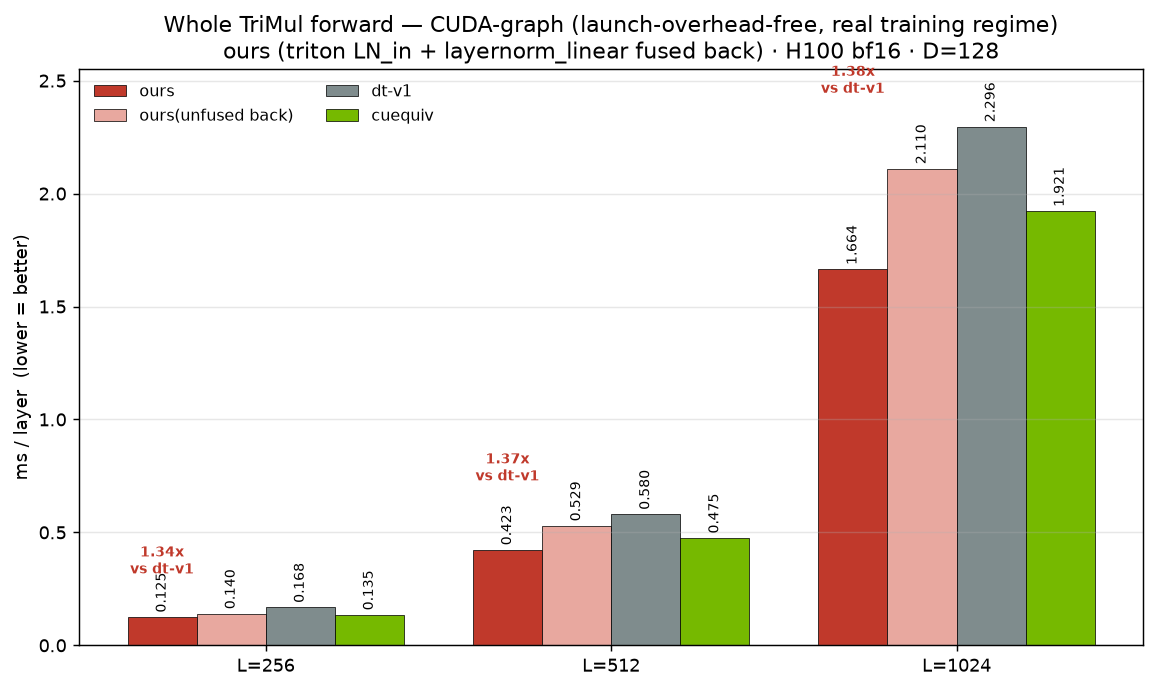
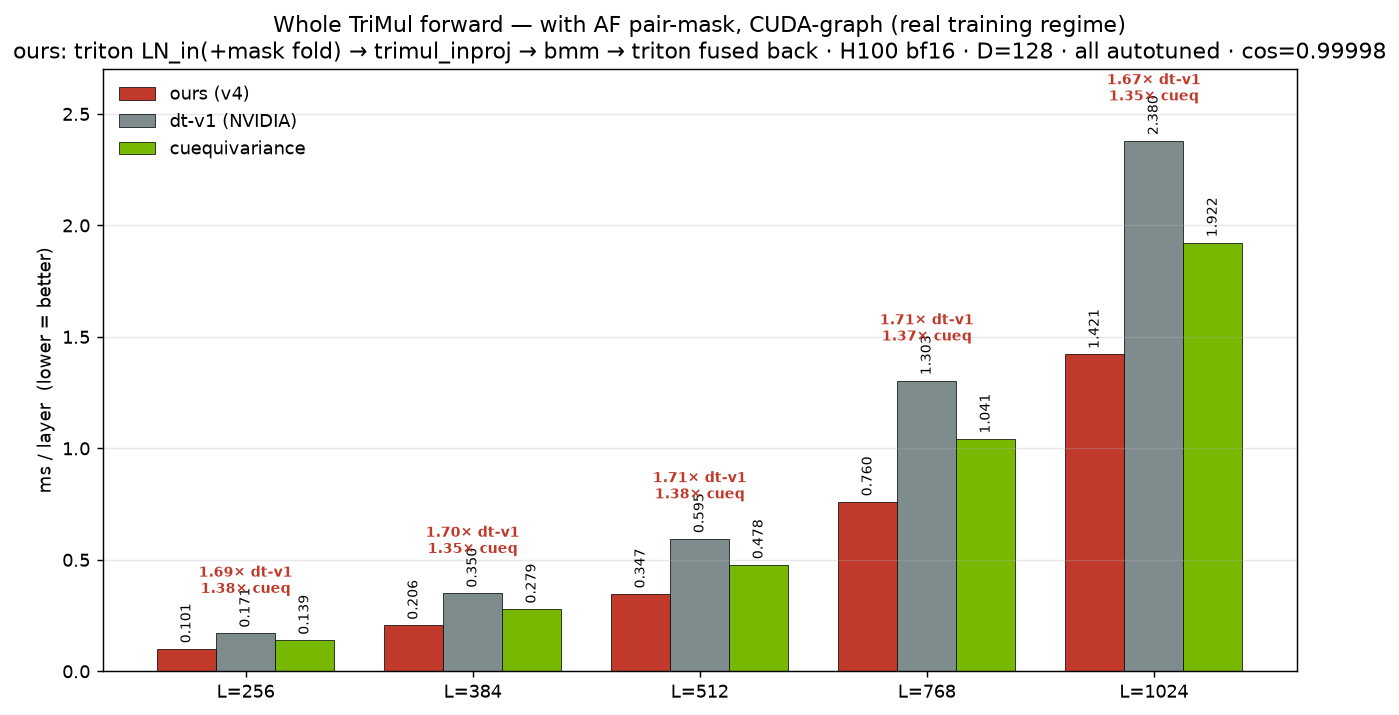
trimul fwd: free AF pair-mask via LN_in fold + canonical mask/cudagraph bench
Mask handling, verified against the AlphaFold reference (modules.py
TriangleMultiplication): mask multiplies the gated left/right projections
(channel-broadcast), output gate stays on UNMASKED xn. Since the projection is
linear (proj(0)=0), masking xn pre-projection zeros left/right at masked
positions identically -> fold the pair-mask into the triton LN_in epilogue for
FREE (no extra EW pass), instead of 2 EW passes on left/right (~+0.6ms @1024) or
modifying quack gemm_act. cos vs pytorch ref (mask) = 0.99998.

layernorm/triton/main.py:
  - layer_norm_fwd_fused gains optional Rowscale + HAS_ROWSCALE constexpr; when
    false (all existing callers) behavior is byte-identical.
  - new triton_layernorm_masked(x,w,b,eps,row_scale): forward-only (no autograd
    yet -> bench/inference). Backward for masked training is TODO (a: add
    masked-LN bwd, or b: fuse mask into trimul_inproj for bit-exact AF bwd).
  - (drive-by, not mine) reset_to_zero on layer_norm_bwd_dx_fused autotune.

compare_bench.py = the canonical reconciled harness, superseding the older
mixed-methodology numbers (reduce-overhead-K8 / teamgm-faithful-with-mask /
whole_fwd_bench). One harness, two regimes (eager + manual CUDA-graph = real
training regime), AF pair-mask, all autotuned (front quack tuned, LN triton
autotune, v4 triton back autotune, v5 per-L tile sweep, dt-v1 triton autotune).
triton LN_in (faster than cuequiv). pytorch/cuequiv now load the cute module
[…]

Changed region(s): [[0.0, 0.0, 0.9965, 0.9753]]

diff --git a/src/miniworld_kernels/kernels/trimul_inproj/cute/compare_bench.py b/src/miniworld_kernels/kernels/trimul_inproj/cute/compare_bench.py
@@ -1,15 +1,14 @@
 """End-to-end trimul forward: OURS (best) vs cuequivariance vs nvidia dtv1
-vs pytorch — ALL measured under the SAME harness (torch.compile reduce-overhead,
-K=8 stack, do_bench median). B=1, D=128, bf16.
+vs pytorch — ALL measured under the SAME harness, TWO regimes (eager + manual
+CUDA-graph = the real launch-overhead-free training regime). B=1, D=128, bf16,
+NO mask. Everything autotuned: front (quack tuned=True), LN_in (triton autotune),
+v4 back (triton autotune), v5 back (per-L tile sweep), dtv1 (triton autotune).
 
-Fixes vs the earlier run:
-  - nvidia dtv1 is now MEASURED here (fused_triangle_multiplicative_update_dtv1),
-    not pulled from the README's eager numbers. Same compile-K8 methodology as
-    everything else, so the comparison is apples-to-apples.
-  - ours_v5 sweeps the fused-back tile config per L and uses the fastest (the
-    baked m2_config_for table only covers L<=512); reports the winner.
+This is the CANONICAL reconciled harness — supersedes the older mixed-methodology
+numbers (compare_bench reduce-overhead-K8, teamgm_faithful with-mask,
+whole_fwd_bench). LN_in is triton here (faster than cuequiv per ln_bench).
 
-OURS = LN_in -> trimul_inproj(left+right, bdll) -> bmm -> fused back:
+OURS = triton LN_in -> trimul_inproj(left+right, bdll) -> bmm -> fused back:
   ours_v4 : triton fused back (gate in-kernel)
   ours_v5 : cute layernorm_linear + folded gate-mul (gate precomputed), tuned
 COMPUTE NODE only. Run with QUACK_CACHE_DIR fresh.
@@ -30,6 +29,9 @@ import torch
 import torch.nn as nn
 import triton
 
+from miniworld_kernels.kernels.layernorm.triton.main import (
+    triton_layernorm, triton_layernorm_masked,
+)
 from miniworld_kernels.kernels.layernorm_linear.cute.gemm_layernorm_linear_fused import (
     layernorm_linear_cute_fused,
 )
@@ -93,6 +95,11 @@ def main():
     Wp_t, Wg_t = mod.to_out.weight.T, mod.to_gate.weight.T
     b_lr = prepack_lr_operand(WL, WLg, WR, WRg)
 
+    # SAME weights everywhere so cos is meaningful (timing is data-independent anyway):
+    # load the cute module's seeded weights into the pytorch / cuequiv reference modules.
+    mods["pytorch"].load_state_dict(mod.state_dict())
+    mods["cuequivariance"].load_state_dict(mod.state_dict())
+
     # dtv1 weights (cuequiv/dtv1 concatenated API), from the SAME mod weights.
     dtv1_kw = dict(
         norm_in_weight=mod.ln_pair.weight, norm_in_bias=mod.ln_pair.bias,
@@ -102,28 +109,37 @@ def main():
         p_out_weight=mod.to_out.weight, g_out_weight=mod.to_gate.weight,
     )
 
-    def ours_nvidia_dtv1(pair):
+    def ours_nvidia_dtv1(pair, mask2d):
         return fused_triangle_multiplicative_update_dtv1(
-            pair, "outgoing", None, eps=eps, **dtv1_kw)
+            pair, "outgoing", mask2d, eps=eps, **dtv1_kw)
 
-    def _ln_in(pair):
+    def _ln_in(pair, rmask=None):
+        # triton LN_in (faster than cuequiv per ln_bench), no transpose. When rmask
+        # ([M] pair-mask) is given it is FOLDED into the LN epilogue (free) — proj(0)=0
+        # so masked xn -> left/right exactly zero at masked positions (== AF's
+        # mask*projection at every valid position; only the discarded output-gate at
+        # padding differs). Avoids the 2 extra EW passes a post-front mask would cost.
         b, l1, l2, d = pair.shape
-        o = layer_norm_transpose(pair.reshape(b * l1 * l2, d), mod.ln_pair.weight,
-                                 mod.ln_pair.bias, eps=mod.ln_pair.eps, layout="nd->nd")
-        return (o[0] if isinstance(o, tuple) else o).view(b, l1, l2, d)
+        xf = pair.reshape(b * l1 * l2, d)
+        if rmask is None:
+            xn = triton_layernorm(xf, mod.ln_pair.weight, mod.ln_pair.bias, mod.ln_pair.eps)
+        else:
+            xn = triton_layernorm_masked(xf, mod.ln_pair.weight, mod.ln_pair.bias,
+                                         mod.ln_pair.eps, rmask)
+        return xn.view(b, l1, l2, d)
 
-    def ours_v4(pair):
+    def ours_v4(pair, rmask):
         b, l1, l2, d = pair.shape
-        xn = _ln_in(pair)
+        xn = _ln_in(pair, rmask)  # mask folded into LN (free) -> left/right zeroed
         left, right, _ = trimul_inproj_cute_forward(
             xn, WL, WLg, WR, WRg, None, bdll_direct=True, compute_gate=False, b_lr=b_lr)
         tri = torch.einsum("bdik,bdjk->bdij", left, right)
         return trimul_back_triton(tri, xn, Wp_t, Wg_t, gln_w, gln_b, eps)
 
     def make_ours_v5(cfg):
-        def ours_v5(pair):
+        def ours_v5(pair, rmask):
             b, l1, l2, d = pair.shape
-            xn = _ln_in(pair)
+            xn = _ln_in(pair, rmask)
             left, right, gate = trimul_inproj_cute_forward(
                 xn, WL, WLg, WR, WRg, Wg, bdll_direct=True, compute_gate=True, b_lr=b_lr)
             tri = torch.einsum("bdik,bdjk->bdij", left, right)
@@ -134,37 +150,35 @@ def main():
             return y.view(b, l1, l2, d)
         return ours_v5
 
-    K = 8
-
-    def stacked(fn):
-        def stack(pair):
-            for _ in range(K):
-                pair = fn(pair)
-            return pair
-        return stack
-
-    def bench_compiled(fn, pair):
+    def bench_cudagraph(fn, pair):
+        """Manual CUDA-graph capture of ONE layer (launch-overhead-free = the real
+        training regime; cleaner than reduce-overhead K-stack, no graph-break noise)."""
         try:
-            torch._dynamo.reset()
-            cfn = torch.compile(stacked(fn), mode="reduce-overhead")
-            for _ in range(6):
-                cfn(pair)
-            return _bench(lambda: cfn(pair)) / K
+            with torch.no_grad():
+                s = torch.cuda.Stream()
+                s.wait_stream(torch.cuda.current_stream())
+                with torch.cuda.stream(s):
+                    for _ in range(5):
+                        fn(pair)
+                torch.cuda.current_stream().wait_stream(s)
+                g = torch.cuda.CUDAGraph()
+                with torch.cuda.graph(g):
+                    fn(pair)
+            return _bench(g.replay)
         except Exception as e:  # noqa: BLE001
-            print(f"   compile fail: {type(e).__name__}: {str(e)[:80]}", flush=True)
+            print(f"   cudagraph fail: {type(e).__name__}: {str(e)[:80]}", flush=True)
             return float("nan")
 
-    def sweep_v5(pair):
+    def sweep_v5(pair, rmask):
         """Pick the fastest v5 tile config for this L (eager single-launch ranking)."""
         best, best_cfg = float("inf"), None
-        xn = _ln_in(pair)
         for cfg in _V5_CONFIGS:
             fn = make_ours_v5(cfg)
             try:
                 with torch.no_grad():
                     for _ in range(3):
-                        fn(pair)
-                t = triton.testing.do_bench(lambda: fn(pair), warmup=10, rep=30,
+                        fn(pair, rmask)
+                t = triton.testing.do_bench(lambda: fn(pair, rmask), warmup=10, rep=30,
                                             return_mode="median")
             except Exception as e:  # noqa: BLE001
                 print(f"   v5 cfg {cfg['tile_m']}x{cfg['tile_n']}cn{cfg['cluster_n']}"
@@ -188,35 +202,51 @@ def main():
             print(f"   eager fail: {type(e).__name__}: {str(e)[:80]}", flush=True)
             return float("nan")
 
-    Ls = [384, 512, 768, 1024]
+    def cos(a, b):
+        a, b = a.float().flatten(), b.float().flatten()
+        return (a @ b / (a.norm() * b.norm() + 1e-20)).item()
+
+    Ls = [256, 384, 512, 768, 1024]
     cols = ["pytorch", "nvidia(dtv1)", "cuequivariance", "ours_v4", "ours_v5"]
     rows_c, rows_e = {}, {}
     for L in Ls:
         pair = torch.randn(1, L, L, D, device="cuda", dtype=dtype)
-        v5_cfg = sweep_v5(pair)
+        # mask EXACTLY like team-gm (torch.rand(1,L)>0.2). Canonical placement (pytorch
+        # ref): mask the gated left/right (post-projection, pre-einsum), broadcast over
+        # D; output gate stays on UNMASKED xn. v4/v5 get m2c=[1,1,L,L] for bdll.
+        mask = torch.rand(1, L, device="cuda") > 0.2          # [1,L] bool
+        mask2d = mask.unsqueeze(-1) & mask.unsqueeze(-2)      # [1,L,L] bool (for dtv1)
+        rmask = mask2d.reshape(-1).to(dtype)                  # [M] folded into ours' LN_in
+        v5_cfg = sweep_v5(pair, rmask)
+        v5fn = make_ours_v5(v5_cfg)
         variants = {
-            "pytorch": lambda p: mods["pytorch"](p),
-            "nvidia(dtv1)": ours_nvidia_dtv1,
-            "cuequivariance": lambda p: mods["cuequivariance"](p),
-            "ours_v4": ours_v4,
-            "ours_v5": make_ours_v5(v5_cfg),
+            "pytorch": lambda p: mods["pytorch"](p, mask),
+            "nvidia(dtv1)": lambda p: ours_nvidia_dtv1(p, mask2d),
+            "cuequivariance": lambda p: mods["cuequivariance"](p, mask),
+            "ours_v4": lambda p: ours_v4(p, rmask),
+            "ours_v5": lambda p: v5fn(p, rmask),
         }
+        if L == 256:  # correctness vs pytorch ref, WITH mask
+            ref = mods["pytorch"](pair, mask)
+            print(f"   cos vs pytorch(mask): v4={cos(variants['ours_v4'](pair), ref):.5f} "
+                  f"v5={cos(variants['ours_v5'](pair), ref):.5f} "
+                  f"dtv1={cos(variants['nvidia(dtv1)'](pair), ref):.5f}", flush=True)
         tc, te = {}, {}
         for name in cols:
             with torch.no_grad():
-                tc[name] = bench_compiled(variants[name], pair)
+                tc[name] = bench_cudagraph(variants[name], pair)
                 te[name] = bench_eager(variants[name], pair)
         rows_c[L], rows_e[L] = tc, te
-        print(f"[L={L}] compile " + " ".join(f"{c}={tc[c]:.3f}" for c in cols), flush=True)
-        print(f"[L={L}] eager   " + " ".join(f"{c}={te[c]:.3f}" for c in cols), flush=True)
+        print(f"[L={L}] cudagraph " + " ".join(f"{c}={tc[c]:.3f}" for c in cols), flush=True)
+        print(f"[L={L}] eager     " + " ".join(f"{c}={te[c]:.3f}" for c in cols), flush=True)
 
-    for tag, rows in (("COMPILE", rows_c), ("EAGER", rows_e)):
+    for tag, rows in (("CUDAGRAPH", rows_c), ("EAGER", rows_e)):
         print(f"\n=== {tag}, ms/layer ===")
         print(f"{'L':>5} | " + " | ".join(f"{c:>14}" for c in cols))
         print("-" * 92)
         for L in Ls:
             print(f"{L:>5} | " + " | ".join(f"{rows[L][c]:>14.3f}" for c in cols))
-    print("\nDATA_COMPILE " + ";".join(
+    print("\nDATA_CUDAGRAPH " + ";".join(
         f"{L}:" + ",".join(f"{rows_c[L][c]:.4f}" for c in cols) for L in Ls), flush=True)
     print("DATA_EAGER " + ";".join(
         f"{L}:" + ",".join(f"{rows_e[L][c]:.4f}" for c in cols) for L in Ls), flush=True)

diff --git a/src/miniworld_kernels/kernels/layernorm/triton/main.py b/src/miniworld_kernels/kernels/layernorm/triton/main.py
@@ -57,11 +57,11 @@ bwd_configs = configs
 @triton.autotune(configs=fwd_configs, key=["N", "GROUP_M"])
 @triton.jit
 def layer_norm_fwd_fused(
-    X, Y, W, B, Mean, Rstd,
+    X, Y, W, B, Mean, Rstd, Rowscale,
     stride_r, stride_c,
     M, N: tl.constexpr, eps: tl.constexpr,
     BLOCK_M: tl.constexpr, BLOCK_N: tl.constexpr,
-    GROUP_M: tl.constexpr,
+    GROUP_M: tl.constexpr, HAS_ROWSCALE: tl.constexpr,
 ):
     # Map the program id to the row of X and Y it should compute.
     row = tl.program_id(0)
@@ -108,6 +108,10 @@ def layer_norm_fwd_fused(
     b = tl.load(B, mask=col_mask)
     x_hat = x * rstd[:, None]
     y = x_hat * w + b
+    if HAS_ROWSCALE:  # fold a per-row scale (e.g. AF pair-mask) into the LN epilogue — free
+        rs_off = tl.arange(0, BLOCK_M) + row * BLOCK_M
+        rs = tl.load(Rowscale + rs_off, mask=rs_off < M, other=0.0).to(tl.float32)
+        y = y * rs[:, None]
     tl.store(Y, y, mask=mask)
 # fmt: on
 
@@ -159,7 +163,7 @@ def layer_norm_fwd_fused_recal(
 
 
 # fmt: off
-@triton.autotune(configs=bwd_configs, key=["N", "GROUP_M"])
+@triton.autotune(configs=bwd_configs, key=["N", "GROUP_M"], reset_to_zero=["DW", "DB"])
 @triton.jit
 def layer_norm_bwd_dx_fused(
     DX, DY, DW, DB,
@@ -243,11 +247,11 @@ class TritonLayerNormFunction(torch.autograd.Function):
         # fmt: off
         grid = lambda META: [triton.cdiv(M, META["BLOCK_M"])]
         layer_norm_fwd_fused[grid](
-            x, y, weight, bias, mean, rstd,
+            x, y, weight, bias, mean, rstd, rstd,  # Rowscale=rstd placeholder (unused)
             x.stride(0), x.stride(1),
             M, N, eps,
             BLOCK_N=triton.next_power_of_2(N),
-            GROUP_M=get_seq_group(M),
+            GROUP_M=get_seq_group(M), HAS_ROWSCALE=False,
         )
         # fmt: on
 
@@ -292,3 +296,27 @@ class TritonLayerNormFunction(torch.autograd.Function):
 
 
 triton_layernorm = TritonLayerNormFunction.apply
+
+
+@torch.compiler.disable()
+def triton_layernorm_masked(x, weight, bias, eps, row_scale):
+    """Forward-only LN with a per-row scale folded into the epilogue (free) — for the
+    AF triangle pair-mask: y = LN(x) * row_scale[row]. row_scale is [M] (or anything
+    reshapeable to [M]); broadcast over the feature dim. No autograd (bench/inference)."""
+    y = torch.empty_like(x)
+    x = x.view(-1, x.shape[-1]).contiguous()
+    M, N = x.shape
+    mean = torch.empty(M, dtype=torch.float32, device=x.device)
+    rstd = torch.empty(M, dtype=torch.float32, device=x.device)
+    rs = row_scale.reshape(-1).to(x.dtype).contiguous()
+    # fmt: off
+    grid = lambda META: [triton.cdiv(M, META["BLOCK_M"])]
+    layer_norm_fwd_fused[grid](
+        x, y, weight, bias, mean, rstd, rs,
+        x.stride(0), x.stride(1),
+        M, N, eps,
+        BLOCK_N=triton.next_power_of_2(N),
+        GROUP_M=get_seq_group(M), HAS_ROWSCALE=True,
+    )
+    # fmt: on
+    return y
